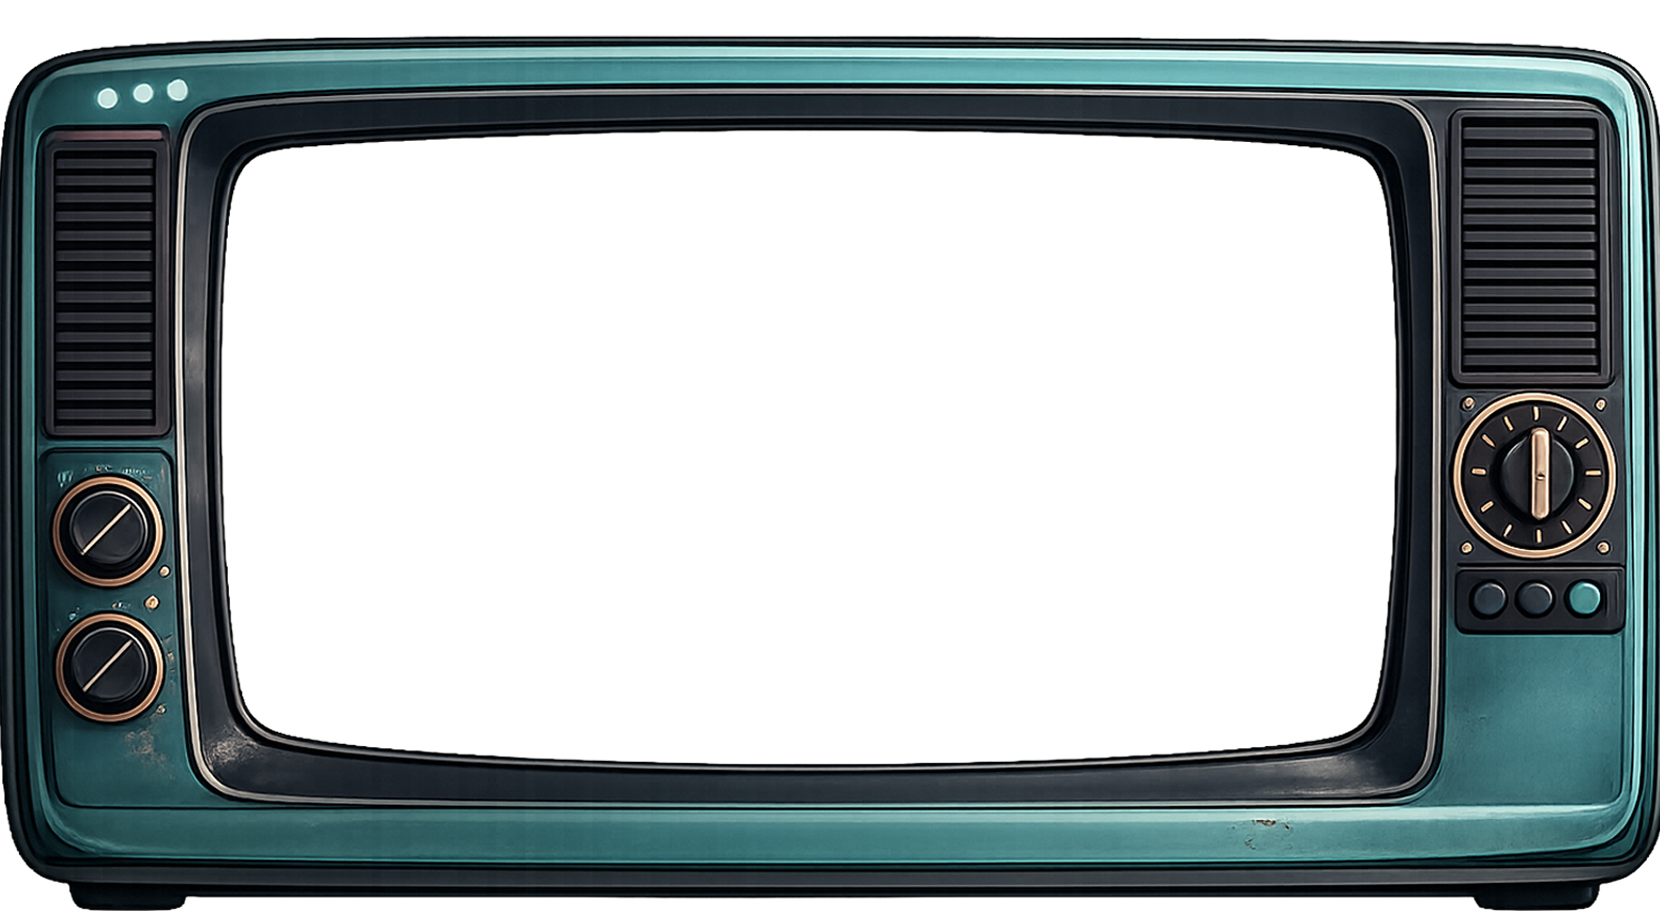
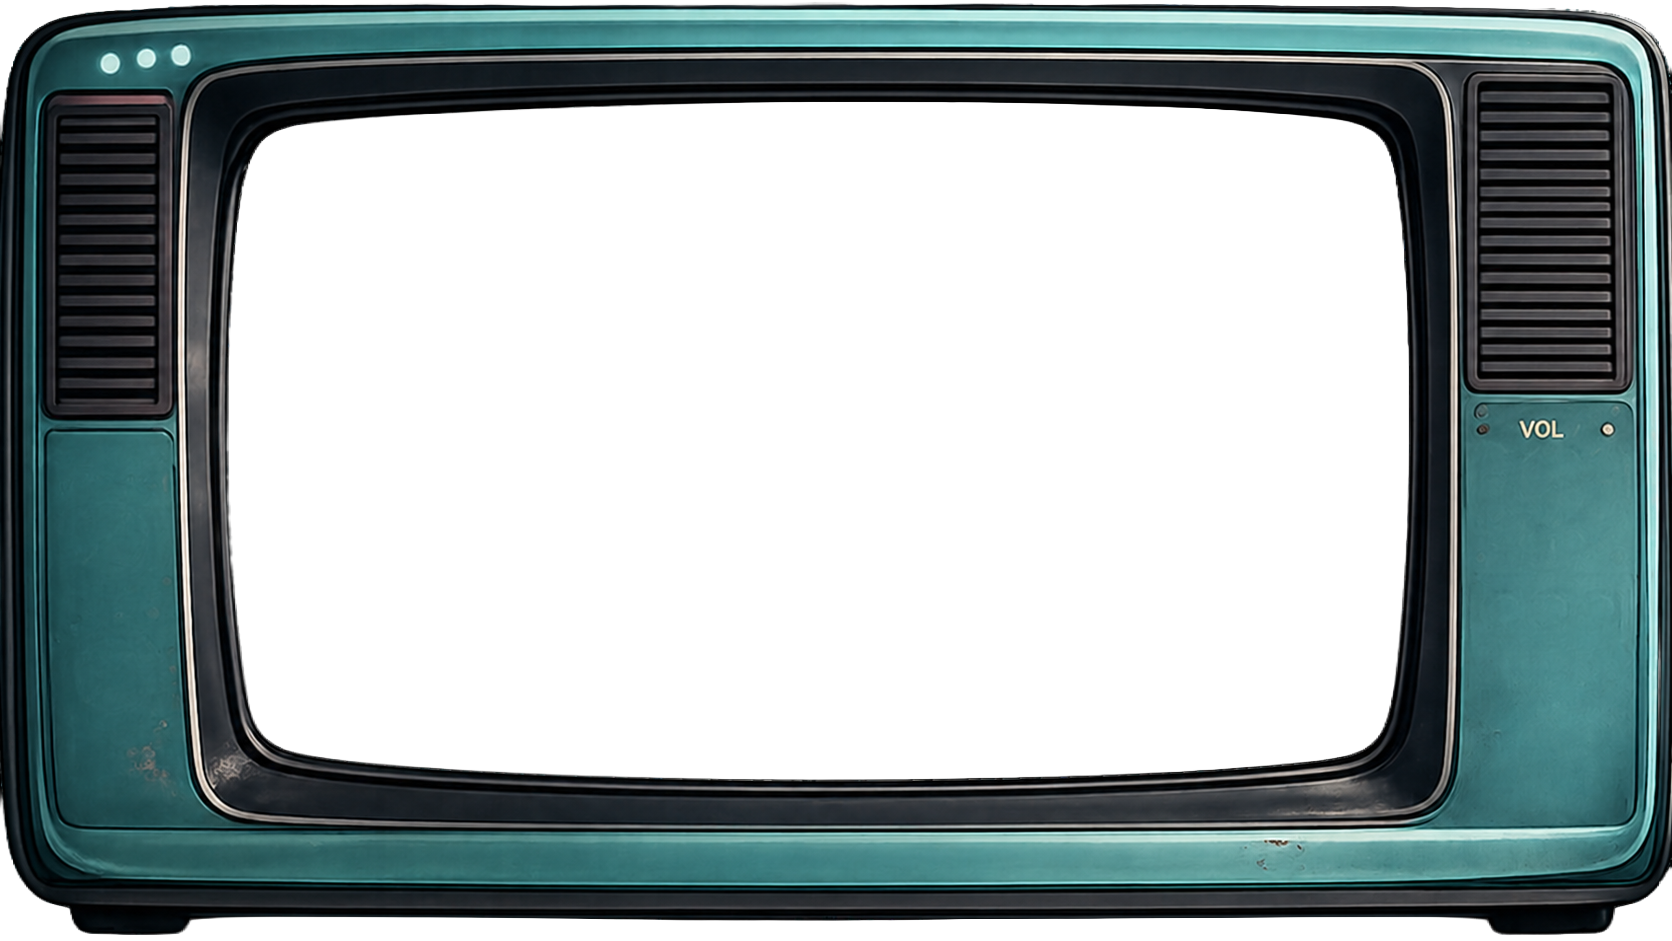
Add functional volume knob for retro tv frame

diff --git a/flutter_data_test/lib/pages/youtube_page.dart b/flutter_data_test/lib/pages/youtube_page.dart
@@ -8,6 +8,7 @@ import '../models/frame_options.dart';
 import '../services/video_service.dart';
 import '../models/search_options.dart';
 import '../services/gemini_service.dart';
+import 'dart:math' as math;
 
 class YoutubePage extends StatefulWidget {
   final List<Map<String, String>> videos;
@@ -33,6 +34,7 @@ class _YoutubePageState extends State<YoutubePage> {
   final _geminiService = GeminiService();
 
   int currentIndex = 0;
+  int volume = 50;
   bool handledEndPlay = false;
   bool isAccountMenuOpen = false;
   bool isLoadingMore = false;
@@ -114,6 +116,18 @@ class _YoutubePageState extends State<YoutubePage> {
     isLoadingMore = false;
   }
 
+  void changeVolume(int newVolume) {
+    setState(() {
+      volume = newVolume;
+    });
+
+    if (kIsWeb) {
+      webController.setVolume(newVolume);
+    } else {
+      mobileController.setVolume(newVolume);
+    }
+  }
+
   void playNext() async {
     if (currentIndex >= videos.length - 2) {
       debugPrint("loading more videos");
@@ -168,6 +182,31 @@ class _YoutubePageState extends State<YoutubePage> {
                     fit: BoxFit.fill,
                     filterQuality: FilterQuality.high,
                   ),
+                ),
+              ),
+            if (selectedMode == DisplayMode.retroTv)
+              Positioned.fill(
+                child: LayoutBuilder(
+                  builder: (context, constraints) {
+                    final frameWidth = constraints.maxWidth;
+                    final frameHeight = constraints.maxHeight;
+
+                    return Stack(
+                      children: [
+                        Positioned(
+                          right: frameWidth * 0.035,
+                          top: frameHeight * 0.49,
+                          child: PointerInterceptor(
+                            child: VolumeKnob(
+                              volume: volume,
+                              onChanged: changeVolume,
+                              size: frameWidth * 0.075,
+                            ),
+                          ),
+                        ),
+                      ],
+                    );
+                  },
                 ),
               ),
           ],
@@ -449,6 +488,75 @@ class _YoutubePageState extends State<YoutubePage> {
               ),
             ),
         ],
+      ),
+    );
+  }
+}
+
+class VolumeKnob extends StatelessWidget {
+  final int volume;
+  final double size;
+  final ValueChanged<int> onChanged;
+
+  const VolumeKnob({
+    super.key,
+    required this.volume,
+    required this.onChanged,
+    this.size = 40,
+  });
+
+  void _updateVolume(BuildContext context, Offset localPosition) {
+    final box = context.findRenderObject() as RenderBox;
+    final size = box.size;
+    final center = Offset(size.width / 2, size.height / 2);
+    final vector = localPosition - center;
+
+    final angle = math.atan2(vector.dy, vector.dx);
+
+    final newVolume = (((angle + math.pi) / (2 * math.pi)) * 100).round().clamp(
+      0,
+      100,
+    );
+
+    onChanged(newVolume);
+  }
+
+  @override
+  Widget build(BuildContext context) {
+    return GestureDetector(
+      onPanDown: (details) => _updateVolume(context, details.localPosition),
+      onPanUpdate: (details) => _updateVolume(context, details.localPosition),
+      child: Transform.rotate(
+        angle: (volume / 100) * 2 * math.pi,
+        child: Container(
+          width: size,
+          height: size,
+          decoration: BoxDecoration(
+            shape: BoxShape.circle,
+            color: const Color(0xFF1A1A1A),
+            border: Border.all(
+              color: const Color(0xFFD8B56D),
+              width: size * 0.05,
+            ),
+            boxShadow: const [
+              BoxShadow(
+                blurRadius: 8,
+                offset: Offset(2, 3),
+                color: Colors.black54,
+              ),
+            ],
+          ),
+          child: Center(
+            child: Container(
+              width: size * 0.08,
+              height: size * 0.4,
+              decoration: BoxDecoration(
+                color: const Color(0xFFD8B56D),
+                borderRadius: BorderRadius.circular(20),
+              ),
+            ),
+          ),
+        ),
       ),
     );
   }
